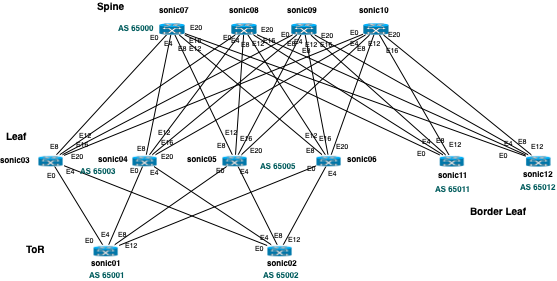
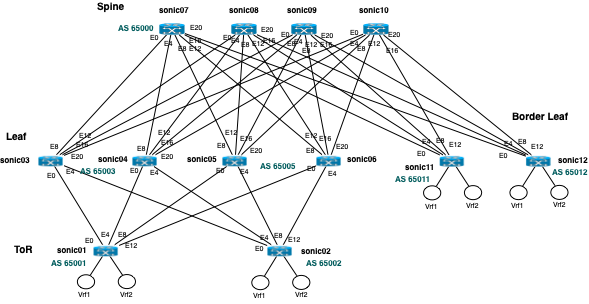
diagram

Changed region(s): [[0.0, 0.0, 1.0, 0.9964], [0.1526, 0.0, 0.2442, 0.0569], [0.8241, 0.7402, 0.9461, 0.7687]]

diff --git a/README.md b/README.md
@@ -1,5 +1,5 @@
 # sonic-vs
-This repo contains kvm xml and config files for launching and running a 12-node sonic-vs CLOS topology as shown in the diagram. The configs leverage BGP unnumbered and have basic SRv6 uSID setup.
+This repo contains kvm xml and config files for launching and running a 12-node sonic-vs CLOS topology as shown in the diagram. There are two sets of router configurations, IPv6/BGP numbered and unnumbered, depending on your preference. The numbered and unnumbered folders contain their own READMEs as well.
 
 <img src="/diagrams/sonic-vs-clos.png" width="1200">
 
@@ -13,7 +13,7 @@ Instructions:
 sudo virsh define sonic01.xml
 sudo virsh start sonic01
 ```
-1. attach to vms via the console port defined in the xml files. 
+4. attach to sonic VMs via the console port defined in the xml files. 
    - Example from sonic01 xml:
 ```
     <console type='tcp'>
@@ -26,9 +26,9 @@ sudo virsh start sonic01
 ```
 telnet localhost 8001
 ```
-1. default user/pw: admin/YourPaSsWoRd
+5. default user/pw: admin/YourPaSsWoRd
 
-2. the xml files create a mgt port attached to linux bridge virbr0, which should allocate a DHCP address for the mgt port IP. Example:
+6. the xml files create a mgt port attached to linux bridge virbr0, which should allocate a DHCP address for the mgt port IP. Example:
 ```
 brmcdoug@naja:~/sonic$ telnet 0 8001
 Trying 0.0.0.0...

diff --git a/config-numbered/README.md b/config-numbered/README.md
@@ -5,7 +5,7 @@
 sudo config vrf add Vrf1
 sudo config interface vrf bind Ethernet16 Vrf1
 ```
-2. sysctl vrf strict mode settings
+2. apply sysctl vrf strict mode setting
 ```
 admin@sonic01:~$ tail -f /etc/sysctl.conf 
 net.ipv6.conf.eth0.keep_addr_on_down = 1
@@ -23,7 +23,7 @@ net.vrf.strict_mode = 1     <------------
 sudo sysctl -p
 ```
 4. configure frr 
-5. cleanout stuff that frr puts in there by default:
+5. cleanout stuff that frr puts in there by default (hopefully this step won't be required much longer, see Bug note below):
 ```
 no ip prefix-list PL_LoopbackV4 seq 5 permit 10.1.0.1/32
 no route-map RM_SET_SRC6 permit 10
@@ -31,7 +31,7 @@ no route-map RM_SET_SRC permit 10
 no ip protocol bgp route-map RM_SET_SRC
 no ipv6 protocol bgp route-map RM_SET_SRC6
 ```
-6. if necessary fix bgp vpn RT settings
+6. if necessary fix bgp vpn RT settings (same note about Bug)
 ```
 router bgp 65001 vrf Vrf1
  address-family ipv4 unicast
